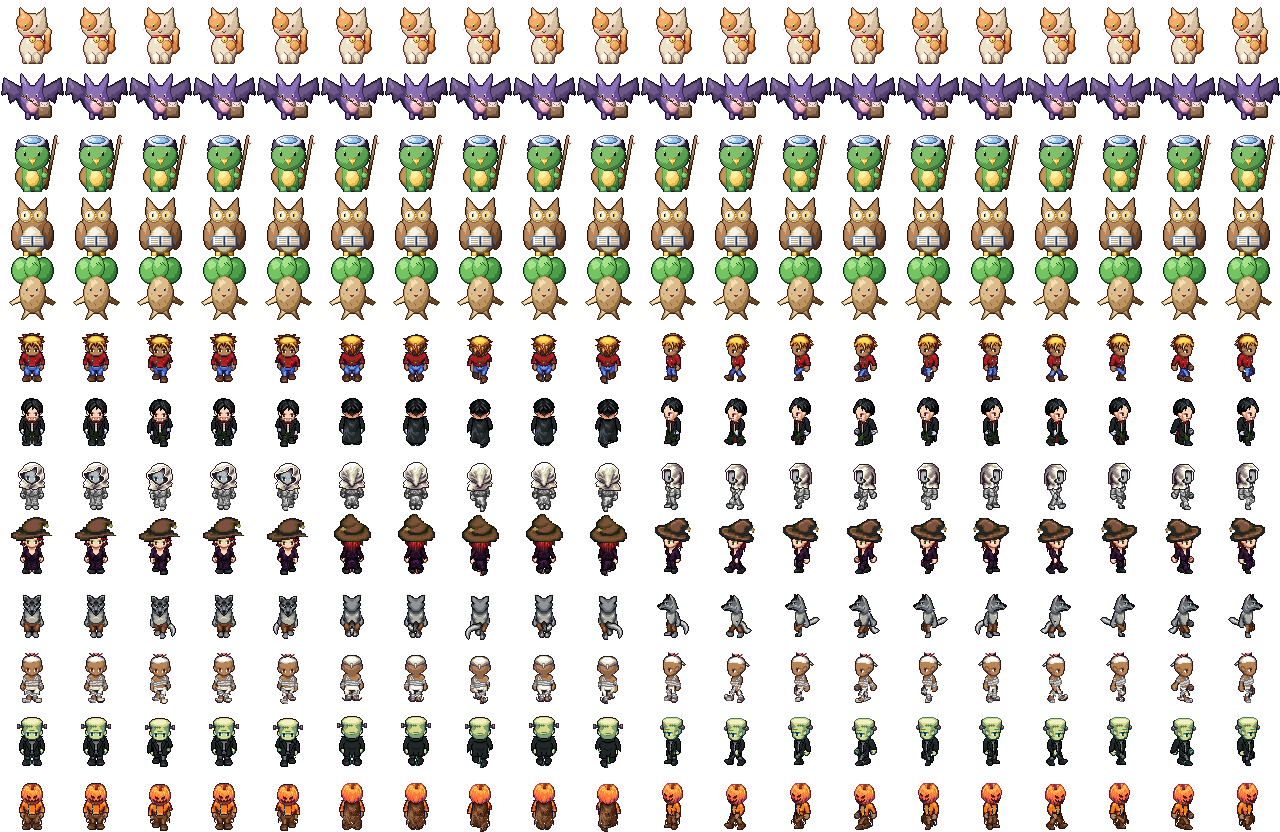
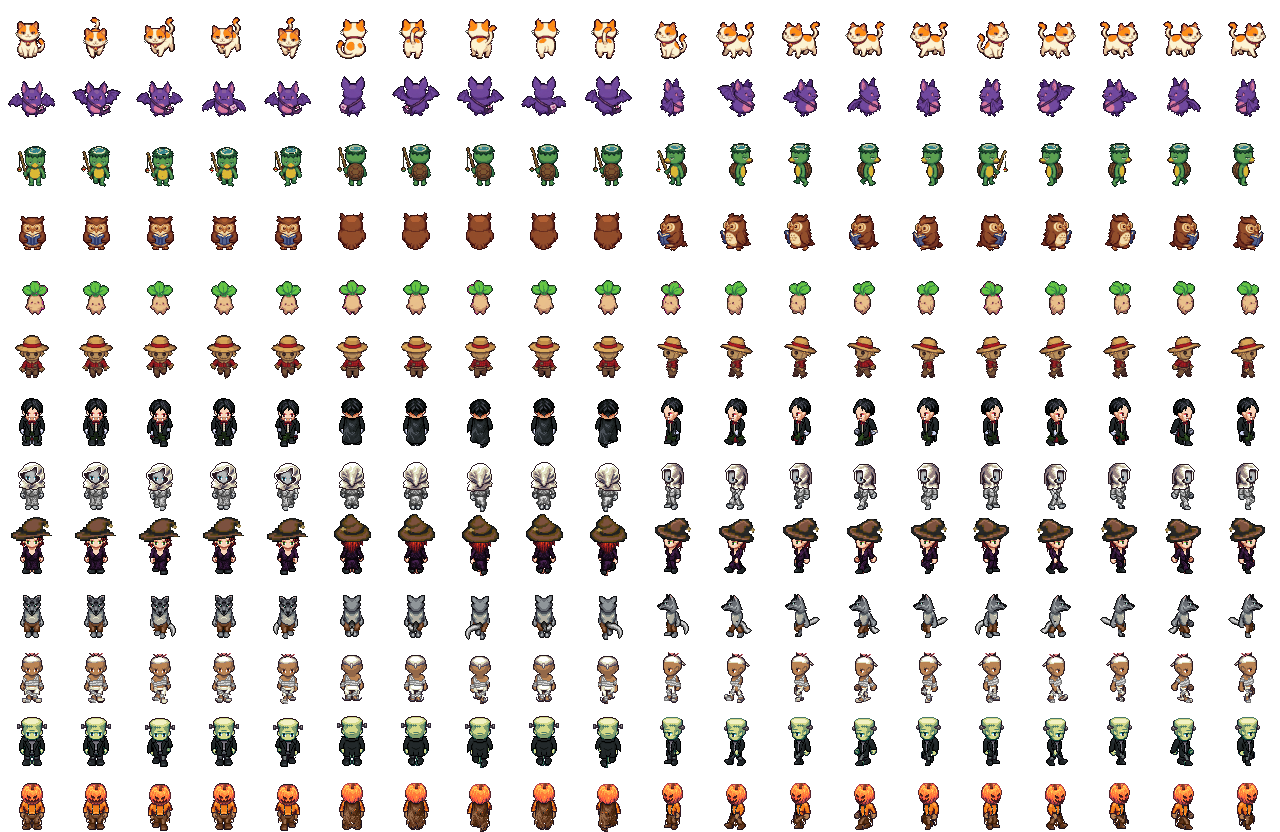
생성형으로 뽑은 NPC 6명(나비·배트리·캇파·아울라·맨디·짚신) 넣기: 체크무늬 배경 지우기·워터마크 칸 빼기·옆모습 방향 정리·64칸으로 줄이기(gen_npcs.py), 4방향 걷기와 집 근처 돌아다니기, 박쥐 날갯짓
Claude-Session: https://claude.ai/code/session_01HhJ2NoNCjk5kaA3GWL7UDs

Changed region(s): [[0.0, 0.0, 1.0, 0.4688]]

diff --git a/public/index.html b/public/index.html
@@ -1627,32 +1627,32 @@ function renderCook(){
 // ===== 서브 NPC 10명: 하루 한 번 대화 ♥, 선물(좋아함 +3·보통 +1·싫어함 -1), ♥2·5·8·10마다 이야기 장면과 보상 =====
 // 동물은 art/npcs.png (tools/iso/npc_art.py) 그림, 사람은 아바타. 관리자 페이지에서 고친 내용(npcs/<id>)이 이 기본값 위에 덮여요
 // 호감도 점수 3점 = ♥1, ♥10까지. me.npc[id] = { p 점수, t 대화한 날, g 선물한 날, s 본 장면 [2,5,…] }
-const NPC_ART_V = 4;
+const NPC_ART_V = 5;
 // LPC NPC 그림(art/npcs.png: 한 줄 = 한 명, 64칸 20개)에서 얼굴 부분만 크게 (초상화)
 const npcFace = (spr, size = 48) => { const B = World.Avatar.headBox, k = size / B.s; return `<i class="npcspr" style="width:${size}px;height:${size}px;background:url(art/npcs.png?v=${NPC_ART_V}) ${-B.x * k}px ${-(spr * 64 + B.y) * k}px/${64 * 20 * k}px ${64 * 13 * k}px no-repeat"></i>`; };
 const npcFull = (spr, size = 144) => { const k = size / 64; return `<i class="stspr" style="background:url(art/npcs.png?v=${NPC_ART_V}) 0 ${-spr * 64 * k}px/${64 * 20 * k}px ${64 * 13 * k}px no-repeat"></i>`; };
 const NPC_DEF = [
-  { id: 'nabi', name: '나비', title: '매점 고양이', spr: 0, h: 22, map: 'campus', x: 61, y: 35, likes: ['f_crucian', 'd_minnowfry', 'g2_catnip'], dislikes: ['j_weed'],
+  { id: 'nabi', wander: true, name: '나비', title: '매점 고양이', spr: 0, h: 22, map: 'campus', x: 61, y: 35, likes: ['f_crucian', 'd_minnowfry', 'g2_catnip'], dislikes: ['j_weed'],
     greet: [['…뭘 봐? 생선 없으면 저리 가.', '냐. 오늘은 바람이 비린내가 안 나네.'], ['또 왔어? …딱히 기다린 건 아니야.', '생선 가게 아저씨가 오늘은 붕어가 싱싱하대.'], ['왔구나! 아니, 반가운 척한 거 아니거든.', '네 발소리는 이제 멀리서도 알아.'], ['우리 집사 왔다냥~ …방금 건 못 들은 걸로 해.', '오늘은 네 옆에서 낮잠 자도 돼?']],
     story: { 2: ['호박 붕어 알아? 꼬리까지 바삭하게 구우면… 크흠.', '좋아하는 걸 말해 주는 건 너한테만이야.'], 5: ['이 방울? 옛날 주인이 달아 줬어.', '주인은 마녀였어. 어느 보름밤에 빗자루를 타고 나가서… 안 돌아왔어.', '그래서 난 시장에서 기다려. 여기선 모두가 지나가니까.'], 8: ['주인 방에서 쪽지를 찾았어. 같이 읽어 줄래?', '「나비야, 내가 늦으면 좋은 사람을 골라. 너는 고르는 눈이 있으니까.」', '…바보. 늦는 게 하루 이틀이야?'], 10: ['결정했어. 너를 새 주인으로 정할게.', '대신 생선은 매일이야. 그리고 쓰다듬는 건 하루 열 번까지만!', '…고마워, 기다리는 걸 덜 외롭게 해 줘서.'] },
     reward: { 2: { coin: 50 }, 5: { items: { f_crucian: 2 } }, 8: { mana: 15 }, 10: { coin: 300, items: { d_minnowfry_s: 2 } } } },
-  { id: 'batri', name: '배트리', title: '우체부 박쥐', spr: 1, h: 24, map: 'campus', x: 66, y: 36, likes: ['g2_rasp', 'g2_blue', 'd_chestnut'], dislikes: ['g_pepper'],
+  { id: 'batri', wander: true, flap: true, name: '배트리', title: '우체부 박쥐', spr: 1, h: 24, map: 'campus', x: 66, y: 36, likes: ['g2_rasp', 'g2_blue', 'd_chestnut'], dislikes: ['g_pepper'],
     greet: [['편지 왔어요~! 어, 이거 당신 거 아니네?', '우체국이 어디였더라… 아, 바로 뒤구나!'], ['오늘도 열 통 배달! 아홉 통은 엉뚱한 데 갔지만요!', '하늘에서 보면 마을이 호박 파이 같아요.'], ['당신 편지는 제일 먼저 배달할게요! 주소가 어디였죠?', '비밀인데요, 우체국장님 코 골아요.'], ['베프! 오늘 들은 소문 전부 알려 줄게요!', '당신 덕분에 요즘은 한 통도 안 틀려요!']],
     story: { 2: ['어제 마녀 오두막에 갈 편지를 늑대인간 집에 넣었어요…', '늑대 아저씨가 연애편지인 줄 알고 얼굴이 빨개졌대요!'], 5: ['저기… 비밀 하나 말해도 돼요?', '박쥐인데요… 밤눈이 어두워요. 그래서 자꾸 길을 잃어요.', '안경을 쓰면 놀림받을까 봐 무서워요.'], 8: ['반딧불이를 모아서 길을 밝혀 주다니…!', '이제 밤길이 하나도 안 무서워요. 안경도… 한번 써 볼까요?'], 10: ['짠! 안경 쓴 배트리 어때요? 다들 멋지대요!', '이제 당신 편지는 제가 평생 무료로 배달할게요!'] },
     reward: { 2: { coin: 40 }, 5: { items: { g2_firefly: 2 } }, 8: { mana: 15 }, 10: { coin: 250, know: 1 } } },
-  { id: 'kappa', name: '캇파', title: '낚시꾼 갓파', spr: 2, h: 26, map: 'campus', x: 57, y: 58, likes: ['g_pea', 'drop', 'd_rainbowsushi'], dislikes: ['j_can'],
+  { id: 'kappa', wander: true, name: '캇파', title: '낚시꾼 갓파', spr: 2, h: 26, map: 'campus', x: 57, y: 58, likes: ['g_pea', 'drop', 'd_rainbowsushi'], dislikes: ['j_can'],
     greet: [['쉿. 물고기가 도망가.', '…느긋하게 기다리는 것도 낚시야.'], ['오, 왔나. 오늘 물이 좋아.', '찌가 흔들릴 땐 숨부터 참아.'], ['자네 낚시 실력이 꽤 늘었군.', '내 접시 물? 오늘은 찰랑찰랑하지.'], ['낚시 친구, 오늘도 한 마리 하세.', '자네랑 있으면 30년 기다림도 짧게 느껴져.']],
     story: { 2: ['요령 하나 알려 주지. 입질 직후 반 박자만 참아.', '서두르면 놓치고, 늦으면 도망가지. 낚시는 마음이야.'], 5: ['머리 접시 물이 마르면 힘이 쭉 빠져… 이슬 좀 부어 주겠나?', '휴우… 살겠다. 자네는 은인이야.'], 8: ['30년 전 보름밤, 호수 한가운데가 금빛으로 빛났어.', '그게 「호수의 주인」이야. 난 그날부터 여기 앉아 있지.'], 10: ['자네에게만 알려 주지. 주인은 달이 가장 높을 때, 밤에만 나와.', '좋은 낚싯대와 끈기가 있으면… 자넨 해낼 거야.'] },
     reward: { 2: { coin: 40 }, 5: { items: { drop: 3 } }, 8: { mana: 15 }, 10: { coin: 300, items: { d_moontrout_s: 1 } } } },
-  { id: 'aula', name: '아울라', title: '사서 부엉이', spr: 3, h: 24, map: 'lab', x: 15, y: 10, likes: ['feather', 'd_clovertea', 'd_starcookie'], dislikes: ['d_poisoncandy'],
+  { id: 'aula', wander: true, name: '아울라', title: '사서 부엉이', spr: 3, h: 24, map: 'lab', x: 15, y: 10, likes: ['feather', 'd_clovertea', 'd_starcookie'], dislikes: ['d_poisoncandy'],
     greet: [['도서관에선 조용히… 여긴 교실이군요. 그래도 조용히.', '부우… 낮은 너무 졸려요.'], ['오늘 수업은 들었나요? 지식은 쌓일수록 무거워지지 않아요.', '물약 레시피는 순서가 생명이에요.'], ['당신은 질문을 잘하는 학생이군요. 좋은 습관이에요.', '오늘의 추천 책: 『호박과 달의 관계』.'], ['내 최고의 제자! 부우!', '당신에게는 금서 서가 열쇠도 맡길 수 있어요.']],
     story: { 2: ['수업 시간에 졸면 안 돼요. 부엉이인 나도 참는걸요.', '…방금 하품은 못 본 걸로 해요.'], 5: ['도서관 깊은 곳에 『사라진 물약 100선』이란 금서가 있었어요.', '어느 날 통째로 사라졌죠. 몇 장만 남기고.'], 8: ['찢어진 페이지를 찾아 줬군요! 여기 적힌 건… 「호박달 물약」의 앞부분이에요.', '나머지는 아직 어딘가에 있어요.'], 10: ['당신 덕분에 금서의 반을 되찾았어요.', '이건 내가 아끼는 공부 비법이에요. 당신이라면 잘 쓸 거예요.'] },
     reward: { 2: { know: 1 }, 5: { coin: 80 }, 8: { know: 2 }, 10: { know: 3, mana: 20 } } },
-  { id: 'mandi', name: '맨디', title: '정원사 맨드레이크', spr: 4, h: 20, map: 'toxic', x: 10, y: 12, likes: ['drop', 'g2_moss', 'g_mint'], dislikes: ['g2_mushred'],
+  { id: 'mandi', wander: true, name: '맨디', title: '정원사 맨드레이크', spr: 4, h: 20, map: 'toxic', x: 10, y: 12, likes: ['drop', 'g2_moss', 'g_mint'], dislikes: ['g2_mushred'],
     greet: [['히익…! 아, 아무것도 아니에요…', '(화분 뒤에 숨었다)'], ['아, 안녕하세요… 오늘은 소리 안 질렀어요…', '이 화분, 제가 키웠어요… 헤헤.'], ['오늘은 먼저 인사하고 싶었어요! 아, 안녕!', '흙 냄새 좋죠? 저는 이 냄새가 제일 좋아요.'], ['당신이 오면 잎사귀가 쫑긋해져요!', '오늘은 비명 대신 노래를 불러 볼까요?']],
     story: { 2: ['이 화분들… 다 제 친구예요. 말은 못 하지만요.', '당신도… 친구 해 줄래요? 아, 아니에요! 히익!'], 5: ['저는 놀라면 비명을 질러요. 듣는 사람이 기절할 만큼…', '그래서 다들 저를 피해요. 같이 참는 연습… 해 줄래요?'], 8: ['방금… 제가 웃었어요! 비명 말고, 웃음이요!', '처음이에요. 이렇게 크게 웃은 거.'], 10: ['이건 제 비밀 씨앗이에요. 제일 아끼는 거예요.', '친구한테 주는 첫 선물이에요. 잘 키워 줘요!'] },
     reward: { 2: { coin: 40 }, 5: { items: { g_mint: 3 } }, 8: { mana: 15 }, 10: { coin: 200, items: { g_star: 2 } } } },
-  { id: 'jipsin', name: '짚신', title: '꼬마 허수아비', spr: 5, h: 26, map: 'campus', x: 10, y: 60, likes: ['g2_straw', 'g2_pseed', 'g2_sseed'], dislikes: ['g2_crowf'],
+  { id: 'jipsin', wander: true, name: '짚신', title: '꼬마 허수아비', spr: 5, h: 26, map: 'campus', x: 10, y: 60, likes: ['g2_straw', 'g2_pseed', 'g2_sseed'], dislikes: ['g2_crowf'],
     greet: [['까, 까마귀 아니지? 휴…', '나는 무서운 허수아비다! …무서웠어?'], ['오늘은 까마귀가 세 마리밖에 안 왔어!', '호박밭 지키는 건 힘들어.'], ['너랑 있으면 까마귀가 안 와. 신기하지?', '무서운 표정 연습 봐 줄래? 크앙!'], ['내 제일 친한 친구! 호박 하나 몰래 줄까?', '이젠 까마귀도 내 친구야. 너 덕분에!']],
     story: { 2: ['나는 허수아비인데 까마귀가 무서워…', '오히려 까마귀들이 내 모자 위에서 놀아. 창피해.'], 5: ['무서운 표정을 연습했어. 봐 봐… 크아앙!', '…웃지 마! 진지하단 말이야!'], 8: ['오늘 까마귀한테 말을 걸어 봤어. 사실 걔들도 호박씨를 좋아한대.', '나눠 먹었더니 더 이상 놀리지 않아.'], 10: ['무서운 허수아비보다 친구 많은 허수아비가 더 좋은 것 같아.', '이 모자 너 줄게. 내 보물이야!'] },
     reward: { 2: { coin: 40 }, 5: { items: { g2_pseed: 3 } }, 8: { mana: 15 }, 10: { coin: 250, items: { g2_gacorn: 1 } } } },
@@ -1678,7 +1678,7 @@ const npcAll = () => { const ids = [...NPC_DEF.map(n => n.id), ...Object.keys(np
   return ids.map(id => ({ ...(NPC_DEF.find(n => n.id === id) || { id, av: true, look: 1, map: 'campus', x: 20, y: 31, likes: [], dislikes: [], greet: [[], [], [], []], story: {}, reward: {} }), ...(npcOver[id] || {}) })).filter(n => !n.off); };
 const npcGet = id => npcAll().find(n => n.id === id);
 const npcAv = n => n.av ? (n.avData ? World.Avatar.fix(n.avData) : World.Avatar.fromLook(n.look || 1)) : null;
-function syncNpcs(){ World.setNpcs([...npcAll().map(n => ({ id: n.id, name: n.name, map: n.map, x: n.x, y: n.y, dir: n.dir || 'down', ...(n.av ? { av: npcAv(n) } : { spr: n.spr, float: n.float }) })),
+function syncNpcs(){ World.setNpcs([...npcAll().map(n => ({ id: n.id, name: n.name, map: n.map, x: n.x, y: n.y, dir: n.dir || 'down', ...(n.av ? { av: npcAv(n) } : { spr: n.spr, float: n.float, wander: n.wander, flap: n.flap }) })),
   ...(typeof storyNpcs === 'function' ? storyNpcs().map(n => ({ id: n.id, name: n.name, map: n.map, x: n.x, y: n.y, spr: n.spr, alpha: n.alpha, float: n.float })) : [])], `art/npcs.png?v=${NPC_ART_V}`); }   // 이야기 주인공도 같이
 const npcSt = id => { me.npc = me.npc || {}; return me.npc[id] = me.npc[id] || { p: 0, s: [] }; };
 const hearts = id => Math.min(10, Math.floor((me.npc?.[id]?.p || 0) / 3));

diff --git a/tools/iso/lpc/gen_npcs.py b/tools/iso/lpc/gen_npcs.py
@@ -1,0 +1,99 @@
+# 생성형으로 뽑은 NPC 시트(tools/iso/npc_src/*.png, 5칸 × 4줄: 아래·왼쪽·오른쪽·위 × [서기, 걷기 4])를 게임 칸으로
+#   - 가짜 체크무늬·마젠타 배경: 칸 테두리에서부터 무채색·마젠타를 채워서 지워요 (캐릭터 외곽선에서 멈춰요)
+#   - 오른쪽 아래 칸은 생성기 표시(✦)가 있어서 안 써요 (뒷모습 걷기는 다른 칸으로)
+#   - 시트마다 한 배율로 줄여서 64×64 칸에 (캐릭터와 같은 픽셀 크기), 색 수 줄이고 외곽선 정리
+#   npc_lpc.py가 불러서 public/art/npcs.png의 해당 줄을 덮어써요
+import os
+import numpy as np
+from PIL import Image
+SRC = os.path.join(os.path.dirname(os.path.abspath(__file__)), '..', 'npc_src')
+# 이름: (npcs.png 줄, 서 있을 때 키(px), 발 높이 y, 뒷모습 줄에 쓸 칸 [서기, 걷기 4])
+GEN = {
+ 'nabi':   (0, 36, 58, [0, 1, 2, 3, 1]),
+ 'batri':  (1, 34, 52, [0, 1, 2, 3, 2]),
+ 'kappa':  (2, 40, 58, [0, 1, 2, 3, 1]),
+ 'aula':   (3, 34, 58, [1, 1, 1, 1, 1]),   # 부엉이 뒷줄은 2번 칸만 진짜 뒷모습
+ 'mandi':  (4, 34, 58, [0, 1, 2, 3, 1]),
+ 'jipsin': (5, 42, 58, [0, 1, 2, 3, 1]),
+}
+GROW = {'down': 0, 'left': 1, 'right': 2, 'up': 3}   # 생성 시트의 줄
+DIRS = ['down', 'up', 'left', 'right']              # 게임 칸 순서
+def cells(a):
+    H, W = a.shape[:2]; ch, cw = H / 4, W / 5
+    return [[a[int(r * ch) + 2:int((r + 1) * ch) - 2, int(c * cw) + 2:int((c + 1) * cw) - 2] for c in range(5)] for r in range(4)]
+def cut_bg(c):
+    rgb = c[..., :3].astype(int); mx, mn = rgb.max(-1), rgb.min(-1)
+    r_, g_, b_ = rgb[..., 0], rgb[..., 1], rgb[..., 2]
+    bg = ((mx - mn <= 24) & (mx >= 45)) | ((r_ > 170) & (b_ > 150) & (g_ < 130)) | ((r_ - g_ > 25) & (b_ - g_ > 20) & (np.abs(r_ - b_) < 40) & (g_ > 90))   # 무채색 · 마젠타 · 마젠타가 번진 체크무늬
+    reg = np.zeros_like(bg); reg[0, :] = bg[0, :]; reg[-1, :] = bg[-1, :]; reg[:, 0] = bg[:, 0]; reg[:, -1] = bg[:, -1]
+    while True:   # 테두리에서 이어진 배경만
+        n = reg.copy()
+        n[1:] |= reg[:-1]; n[:-1] |= reg[1:]; n[:, 1:] |= reg[:, :-1]; n[:, :-1] |= reg[:, 1:]
+        n &= bg
+        if (n == reg).all(): break
+        reg = n
+    out = c.copy(); out[..., 3] = np.where(reg, 0, 255)
+    # 배경과 맞닿은 밝은 무채색 테두리 찌꺼기 한 겹 더
+    m = out[..., 3] > 0; edge = m & ~(np.roll(m, 1, 0) & np.roll(m, -1, 0) & np.roll(m, 1, 1) & np.roll(m, -1, 1))
+    out[edge & bg, 3] = 0
+    return out
+def bbox(c):
+    ys, xs = np.nonzero(c[..., 3] > 0)
+    return (xs.min(), ys.min(), xs.max() + 1, ys.max() + 1) if len(ys) else None
+def shrink(c, k):
+    """RGBA를 k배로 줄여요: 색은 불투명 칸끼리만 평균, 반 넘게 차면 칸으로"""
+    h, w = c.shape[:2]; H, W = max(1, round(h * k)), max(1, round(w * k))
+    a = c[..., 3:4].astype(float) / 255; pm = (c[..., :3] * a).astype(np.float32)
+    P = np.array(Image.fromarray(np.concatenate([pm, a * 255], -1).astype(np.uint8), 'RGBA').resize((W, H), Image.BOX)).astype(float)
+    al = P[..., 3:4] / 255; col = np.where(al > 0, P[..., :3] / np.maximum(al, 1e-3), 0)
+    out = np.zeros((H, W, 4), np.uint8); out[..., :3] = np.clip(col, 0, 255); out[..., 3] = np.where(al[..., 0] >= .45, 255, 0)
+    return out
+def outline(f):
+    m = f[..., 3] > 0; o = f.copy()
+    for y in range(64):
+        for x in range(64):
+            if m[y, x]: continue
+            for dy, dx in ((1, 0), (-1, 0), (0, 1), (0, -1)):
+                yy, xx = y + dy, x + dx
+                if 0 <= yy < 64 and 0 <= xx < 64 and m[yy, xx]:
+                    c = f[yy, xx, :3].astype(int)
+                    if c.max() > 70: o[y, x, :3] = (c * .3).astype(np.uint8); o[y, x, 3] = 255
+                    break
+    return o
+def build(name):
+    row, height, foot, upcols = GEN[name]
+    a = np.array(Image.open(os.path.join(SRC, name + '.png')).convert('RGBA'))
+    C = [[cut_bg(c) for c in r] for r in cells(a)]
+    b = bbox(C[0][0]); k = height / (b[3] - b[1])
+    frames = []
+    for d in DIRS:
+        r = GROW[d]; idx = upcols if d == 'up' else [0, 1, 2, 3, 4]
+        for ci in idx:
+            src = C[r][ci]; bb = bbox(src)
+            s = shrink(src[bb[1]:bb[3], bb[0]:bb[2]], k)
+            f = np.zeros((64, 64, 4), np.uint8); h, w = s.shape[:2]
+            x0 = 32 - w // 2; y0 = foot - h
+            ys, xs = slice(max(0, y0), min(64, y0 + h)), slice(max(0, x0), min(64, x0 + w))
+            f[ys, xs] = s[max(0, -y0):max(0, -y0) + (ys.stop - ys.start), max(0, -x0):max(0, -x0) + (xs.stop - xs.start)]
+            frames.append(f)
+    # 옆모습 정리: 왼쪽 서기 칸을 기준으로, 반대로 선 칸은 뒤집고 앞모습 칸은 이웃 칸으로. 오른쪽은 왼쪽을 뒤집어요
+    iou = lambda p, q: ((p[..., 3] > 0) & (q[..., 3] > 0)).sum() / max(1, ((p[..., 3] > 0) | (q[..., 3] > 0)).sum())
+    L0, D0 = frames[10], frames[0]; left = [L0]
+    for f in frames[11:15]:
+        fl = f[:, ::-1]; a_, b_, c_ = iou(f, L0), iou(fl, L0), iou(f, D0)
+        if c_ > max(a_, b_) + .05: f = left[-1]
+        elif b_ > a_: f = fl
+        left.append(f)
+    frames[10:15] = left; frames[15:20] = [f[:, ::-1].copy() for f in left]
+    strip = np.concatenate(frames, 1)
+    # 색 수 줄이기 (시트 하나에 32색)
+    rgb = Image.fromarray(strip[..., :3]).quantize(32, method=Image.Quantize.MEDIANCUT).convert('RGB')
+    strip[..., :3] = np.array(rgb)
+    return row, np.concatenate([outline(strip[:, i * 64:(i + 1) * 64]) for i in range(20)], 1)
+def all_gen():
+    return [build(n) for n in GEN if os.path.exists(os.path.join(SRC, n + '.png'))]
+if __name__ == '__main__':
+    import sys
+    rows = all_gen(); pv = Image.new('RGBA', (64 * 20, 64 * len(rows)), (250, 241, 226, 255))
+    for i, (r, s) in enumerate(rows): pv.alpha_composite(Image.fromarray(s), (0, i * 64))
+    pv.resize((pv.width * 2, pv.height * 2), Image.NEAREST).save(sys.argv[1])

diff --git a/tools/iso/lpc/npc_lpc.py b/tools/iso/lpc/npc_lpc.py
@@ -103,6 +103,9 @@ if __name__ == '__main__':
     sys.path.insert(0, HERE); from beasts import BEASTS
     for r, f in enumerate(BEASTS):
         b = f(); sheet[r * 64:(r + 1) * 64] = np.tile(b, (1, 20, 1))
+    # 생성형으로 뽑은 시트가 있으면 그걸로 (4방향 걷기까지): gen_npcs.py · tools/iso/npc_src/
+    from gen_npcs import all_gen
+    for r, strip in all_gen(): sheet[r * 64:(r + 1) * 64] = strip
     Image.fromarray(sheet).save(os.path.join(ROOT, 'public', 'art', 'npcs.png'))
     if len(sys.argv) > 2:   # 미리보기: 앞모습만 크게
         pv = Image.new('RGBA', (64 * len(plan), 64), (250, 241, 226, 255))

diff --git a/README.md b/README.md
@@ -107,7 +107,7 @@
 - 로그인 화면 [관리자] → 관리자 코드. 실시간 지도(맵별 위치), 학생 현황(골드·마력·지식·도감·낚싯대·옷·생물·위치), 대화 기록(날짜별, `chat/<날짜>`), 기숙사 진행, NPC 호감도 표·NPC 편집.
 
 ## 서브 NPC 10명
-- 동물 NPC 5명(나비 고양이·배트리 박쥐·캇파·아울라 부엉이·맨디 맨드레이크, `tools/iso/lpc/beasts.py` 음영 그림) + 짚신·주인공 7명은 LPC 부품 조립(`tools/iso/lpc/npc_lpc.py` → `public/art/npcs.png`, 캐릭터와 같은 날씬한 몸): 나비(매점 고양이·등불 시장), 배트리(우체부 박쥐), 캇파(낚시꾼 갓파·호수 잔교), 아울라(사서 부엉이·물약 교실), 맨디(맨드레이크·독초 온실), 짚신(꼬마 허수아비·호박밭).
+- 나비(고양이)·배트리(박쥐)·캇파·아울라(부엉이)·맨디(맨드레이크)·짚신(허수아비)은 생성형 시트(`tools/iso/npc_src/*.png` → `tools/iso/lpc/gen_npcs.py`가 배경 지우고 64칸으로, 4방향 걷기·근처를 돌아다녀요) + 주인공 7명은 LPC 부품 조립(`tools/iso/lpc/npc_lpc.py` → `public/art/npcs.png`, 캐릭터와 같은 날씬한 몸): 나비(매점 고양이·등불 시장), 배트리(우체부 박쥐), 캇파(낚시꾼 갓파·호수 잔교), 아울라(사서 부엉이·물약 교실), 맨디(맨드레이크·독초 온실), 짚신(꼬마 허수아비·호박밭).
 - 사람 NPC 4명(아바타): 세라 선생님(물약 교실), 마들렌(과자 교실), 스텔라(마녀의 오두막), 레오(사육장). 관리자 페이지 「NPC 호감도」에서 생김새·이름·장소·선물·인사말·이야기를 고치고, 사람 NPC를 더 만들 수 있어요(`npcs/<id>`, 관리자만 쓰기).
 - 하루 한 번 대화 +1, 선물(하루 한 번) 좋아함 +3·보통 +1·싫어함 -1. 점수 3 = ♥1, ♥10까지. ♥2·5·8·10마다 이야기 장면과 보상. 학생 데이터 `players/<uid>/npc/<id>`.
 
